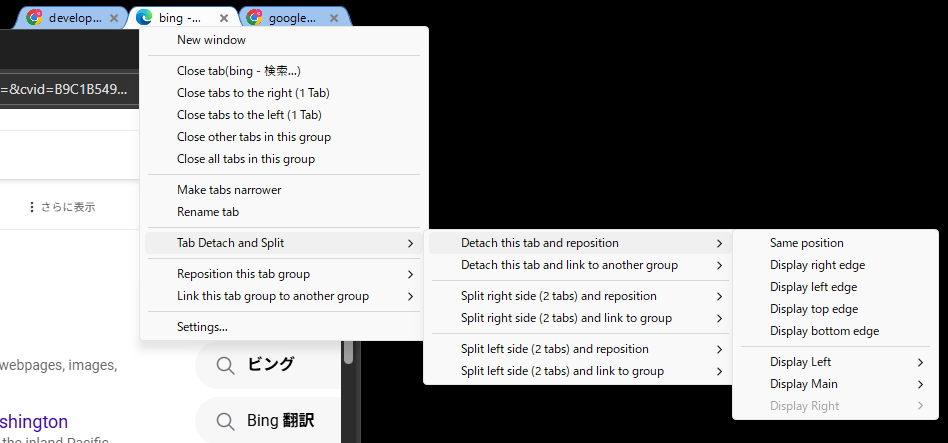
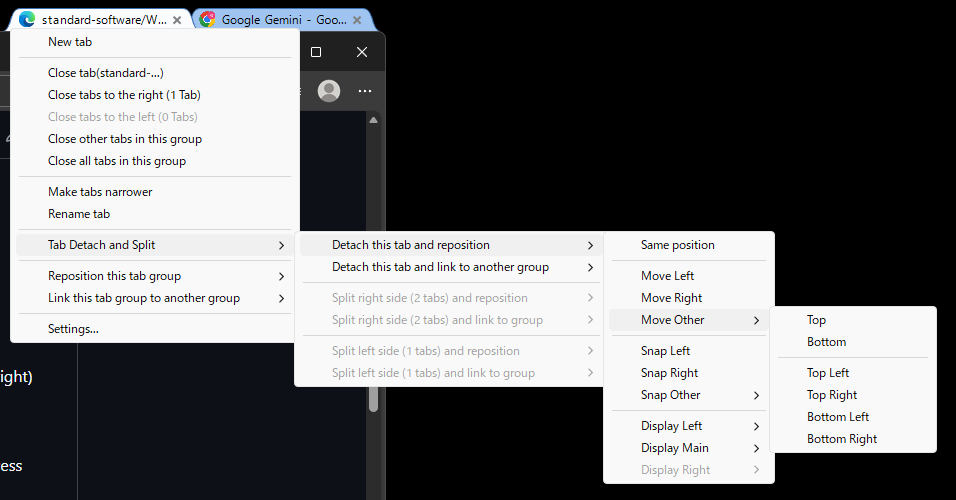
update README

diff --git a/README_Japanese.md b/README_Japanese.md
@@ -130,13 +130,22 @@ WindowTabs をスタートアップ時に起動:
 
 「タブの分離と分割」サブメニューは、強力なタブ管理オプションを提供します:
 
-![Tab Detach and Split](README_Image/DetachTab.png)
+![Tab Detach and Split Move Position](README_Image/DetachTab.png)
+![Tab Detach and Split Snap Position](README_Image/SnapPosition.png)
 
 #### 位置移動
 
-- 分離と分割の操作で、同じ位置のオプションが利用可能
-- 現在の画面の端に移動 (右/左/上/下)
-- 画面端に配置のオプションを使用して他のディスプレイに移動
+トップレベルメニュー:
+- **同じ位置** - ウィンドウを現在の位置に維持
+- **左に移動 / 右に移動** - 現在のディスプレイの左端または右端に移動
+- **左にスナップ / 右にスナップ** - 画面の左側または右側にスナップ（高さは画面全体）
+
+「他の位置に移動」サブメニュー:
+- 上、下 - 上端または下端に移動
+- 左上、右上、左下、右下 - コーナーに移動
+
+「他のスナップ」サブメニュー:
+- 左 / 右 / 上 / 下 - パーセンテージオプション（30%、40%、50%、60%、70%、80%、90%）でスナップ
 - 異なる DPI ディスプレイでも正確に配置するための、DPI を考慮したパーセンテージベースの位置指定
 
 #### 他のグループへ連結

diff --git a/README.md b/README.md
@@ -130,13 +130,22 @@ This feature remains unchanged from the original WindowTabs functionality.
 
 The "Tab Detach and Split" submenu provides powerful tab management options:
 
-![Tab Detach and Split](README_Image/DetachTab.png)
+![Tab Detach and Split Move Position](README_Image/DetachTab.png)
+![Tab Detach and Split Snap Position](README_Image/SnapPosition.png)
 
 #### Reposition
 
-- For detach and split operations, same position option is available
-- Move to current display edges (right/left/top/bottom)
-- Move to other displays with edge positioning options
+Top level menu options:
+- **Same position** - Keep the window at its current position
+- **Move Left / Move Right** - Move to the left or right edge of the current display
+- **Snap Left / Snap Right** - Snap to the left or right side of the screen (full height)
+
+"Move Other" submenu:
+- Top, Bottom - Move to the top or bottom edge
+- Top-Left, Top-Right, Bottom-Left, Bottom-Right - Move to corners
+
+"Snap Other" submenu:
+- Left / Right / Top / Bottom - Snap with percentage options (30%, 40%, 50%, 60%, 70%, 80%, 90%)
 - DPI-aware percentage-based positioning for correct placement across different DPI displays
 
 #### Link to another group
